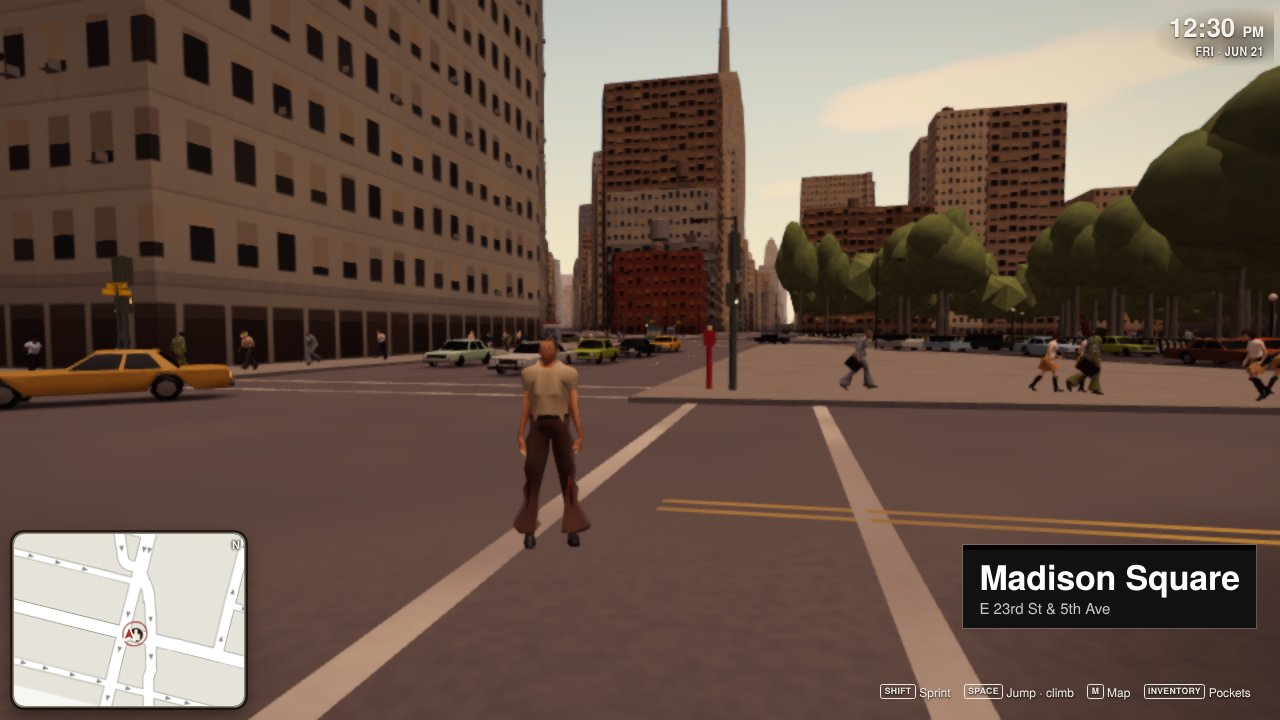
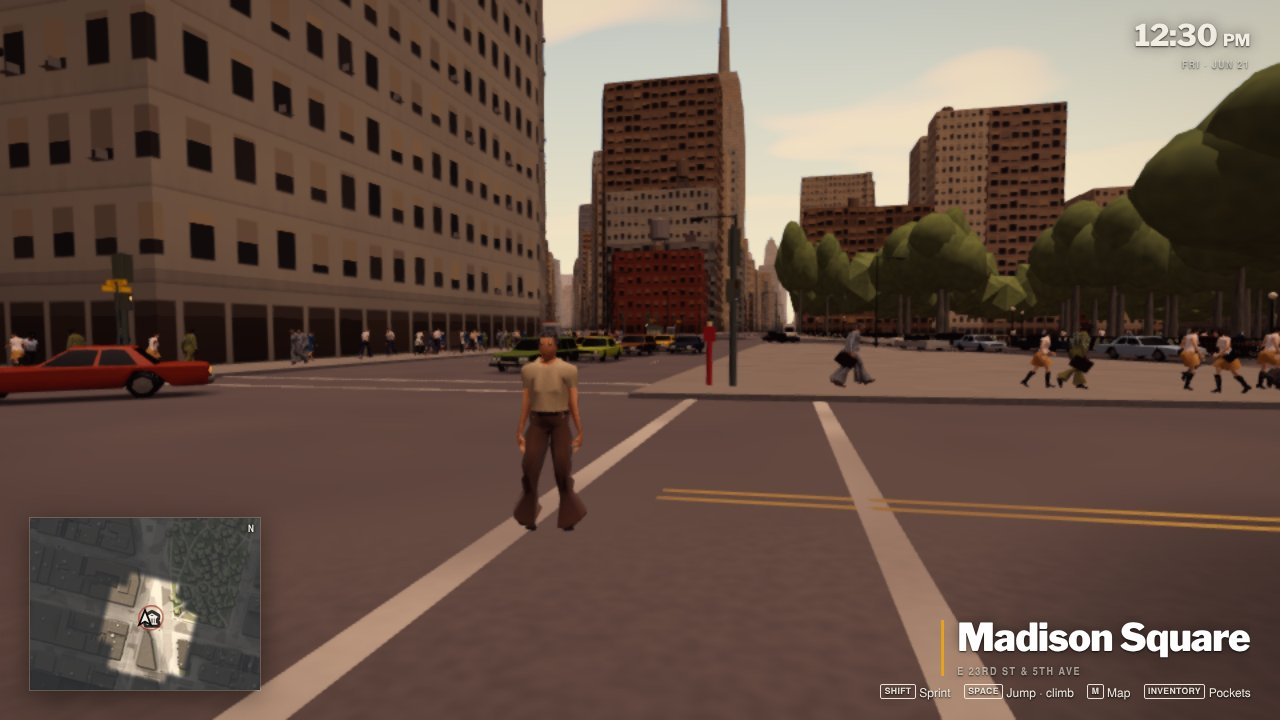
Board: re-shot on the post-merge build (Design A HUD, no debug hints, 90/240 density)
Claude-Session: https://claude.ai/code/session_01H4ZSJ5agLRKP5qS2okvyAK

diff --git a/docs/WIRING_BOARD.md b/docs/WIRING_BOARD.md
@@ -45,7 +45,13 @@ Shots are in `shots/wiring/`.
 6. **Street-sign accuracy check: not done yet.** It needs 1970s reference photos for typeface,
    abbreviations, blade proportions and mounting. It is next on the list, with the landmark signage
    sweep.
-7. The minimap in these shots is the pre-Design-A one; the build predates the UI merge (dec2dfa).
+7. **Fixed after oversight's review (1fe5e00):**
+   - `onfoot_madison_sq.jpg` and `A_42nd_noon.jpg` are re-shot on the post-merge build. They show
+     Design A: the aerial minimap with fog of war, the location wipe and the clock.
+   - Free-camera key hints now only appear with `?debug=1`.
+   - Low density is now 90/240. That gives 54–57 cars and 200–246 pedestrians around the camera, and
+     sim cost rises to 3.4 ms headless, over the 2 ms budget. The phone bench decides.
+   - Parked cars on every kerb wait on sim's `parkedCars()`.
 
 ## vs GTA V / GTA VI / RDR2
 
